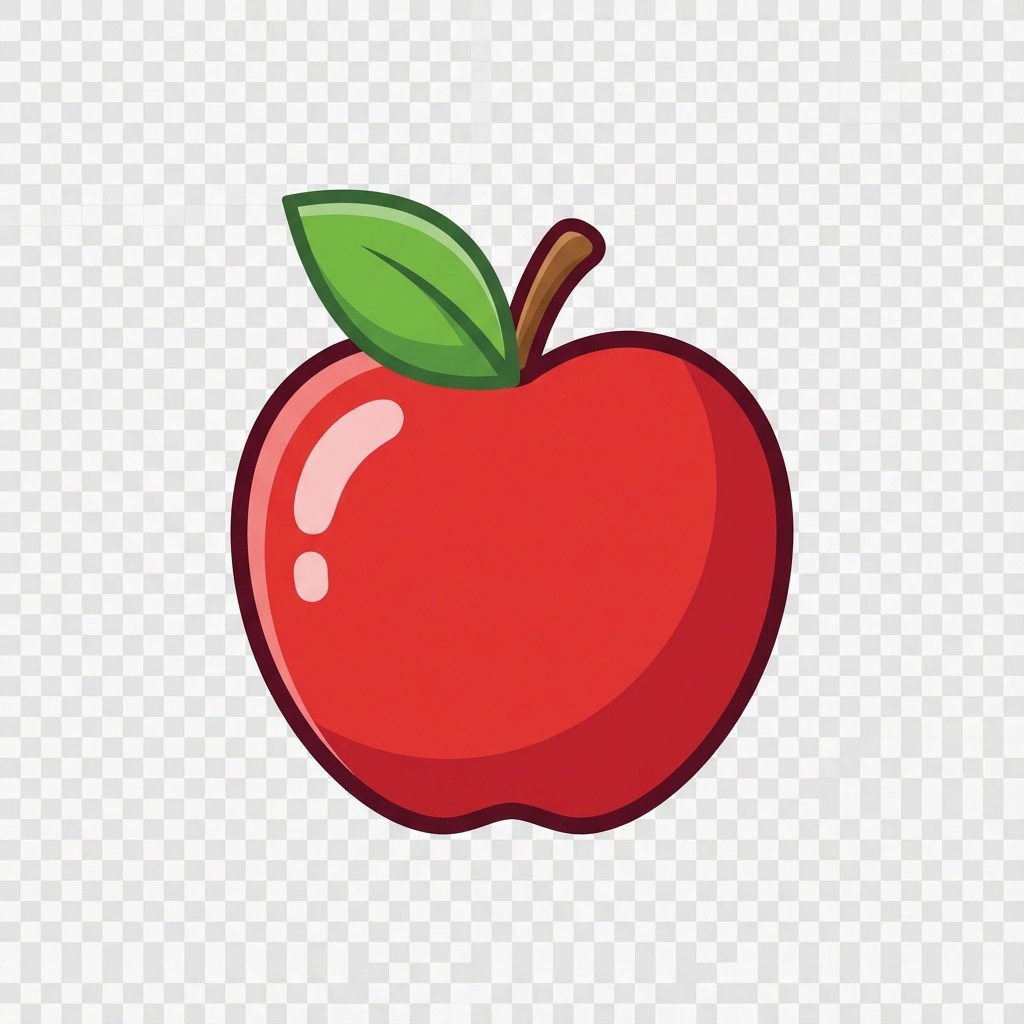
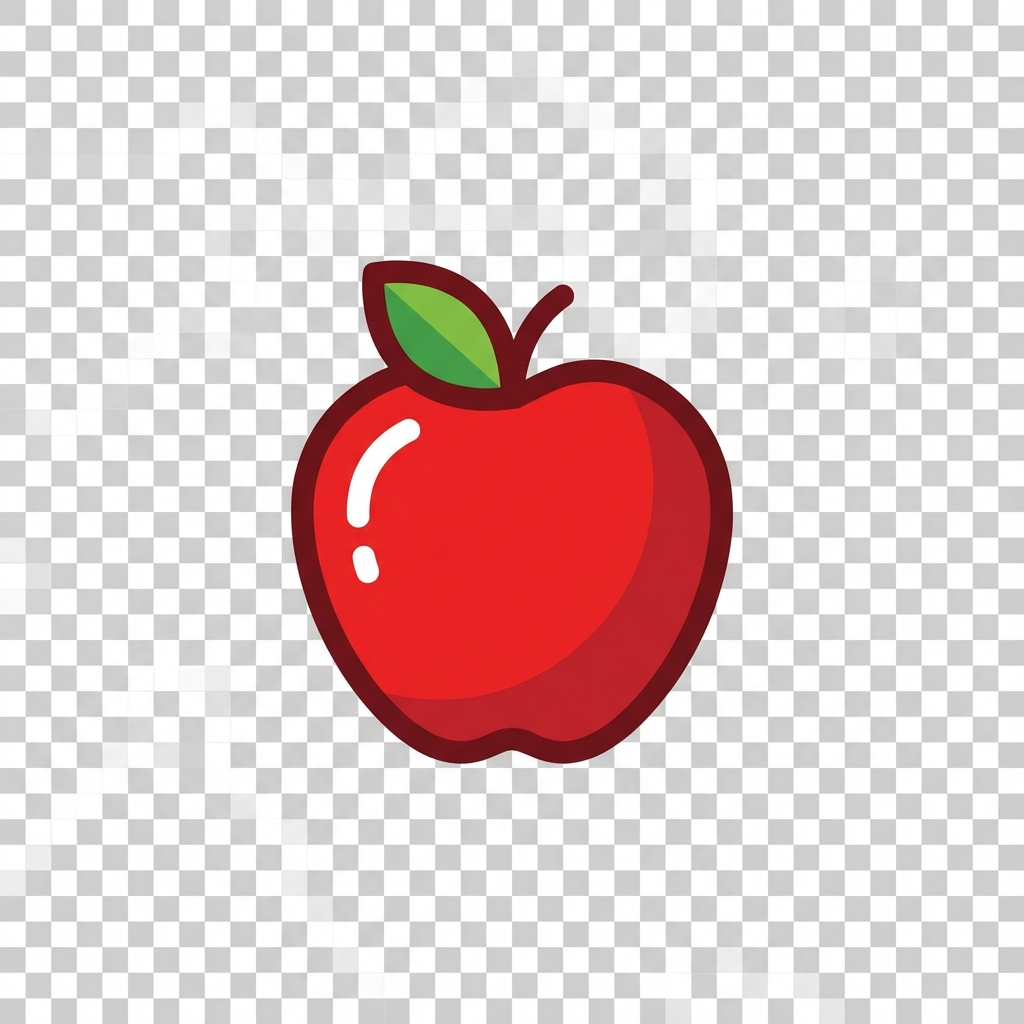
Replace PNG assets with SVGs for better quality and transparency, update background to green

diff --git a/src/game/Entities.ts b/src/game/Entities.ts
@@ -62,7 +62,7 @@ export class Player extends Entity {
     speed: number = 250; // pixels per second
 
     constructor(x: number, y: number, charType: string) {
-        super(x, y, 50, `/assets/player_${charType}.png`);
+        super(x, y, 50, `/assets/player_${charType}.svg`);
     }
 
     move(directions: { up: boolean; down: boolean; left: boolean; right: boolean }, dt: number) {
@@ -95,7 +95,7 @@ export class BadGuy extends Entity {
     speed: number;
 
     constructor(x: number, y: number) {
-        super(x, y, 50, '/assets/bad_guy.png');
+        super(x, y, 50, '/assets/bad_guy.svg');
         this.speed = this.baseSpeed;
     }
 
@@ -122,12 +122,12 @@ export class BadGuy extends Entity {
 
 export class Apple extends Entity {
     constructor(x: number, y: number) {
-        super(x, y, 40, '/assets/apple.png');
+        super(x, y, 40, '/assets/apple.svg');
     }
 }
 
 export class Obstacle extends Entity {
     constructor(x: number, y: number) {
-        super(x, y, 60, '/assets/obstacle_rock.png');
+        super(x, y, 60, '/assets/obstacle_rock.svg');
     }
 }

diff --git a/src/main.ts b/src/main.ts
@@ -14,16 +14,16 @@ document.querySelector<HTMLDivElement>('#app')!.innerHTML = `
     <h1>Andrew's Game</h1>
     <div class="character-select">
       <div class="char-option selected" data-char="circle">
-        <img src="/assets/player_circle.png" alt="Circle" />
+        <img src="/assets/player_circle.svg" alt="Circle" />
       </div>
       <div class="char-option" data-char="square">
-        <img src="/assets/player_square.png" alt="Square" />
+        <img src="/assets/player_square.svg" alt="Square" />
       </div>
       <div class="char-option" data-char="triangle">
-        <img src="/assets/player_triangle.png" alt="Triangle" />
+        <img src="/assets/player_triangle.svg" alt="Triangle" />
       </div>
       <div class="char-option" data-char="star">
-        <img src="/assets/player_star.png" alt="Star" />
+        <img src="/assets/player_star.svg" alt="Star" />
       </div>
     </div>
     <button id="btn-start">Start Game</button>

diff --git a/src/style.css b/src/style.css
@@ -34,7 +34,8 @@ body {
 }
 
 canvas {
-  background-color: #333;
+  background-color: #51cf66;
+  /* Grass green */
   box-shadow: 0 0 20px rgba(0, 0, 0, 0.5);
   border-radius: 8px;
   max-width: 100%;
